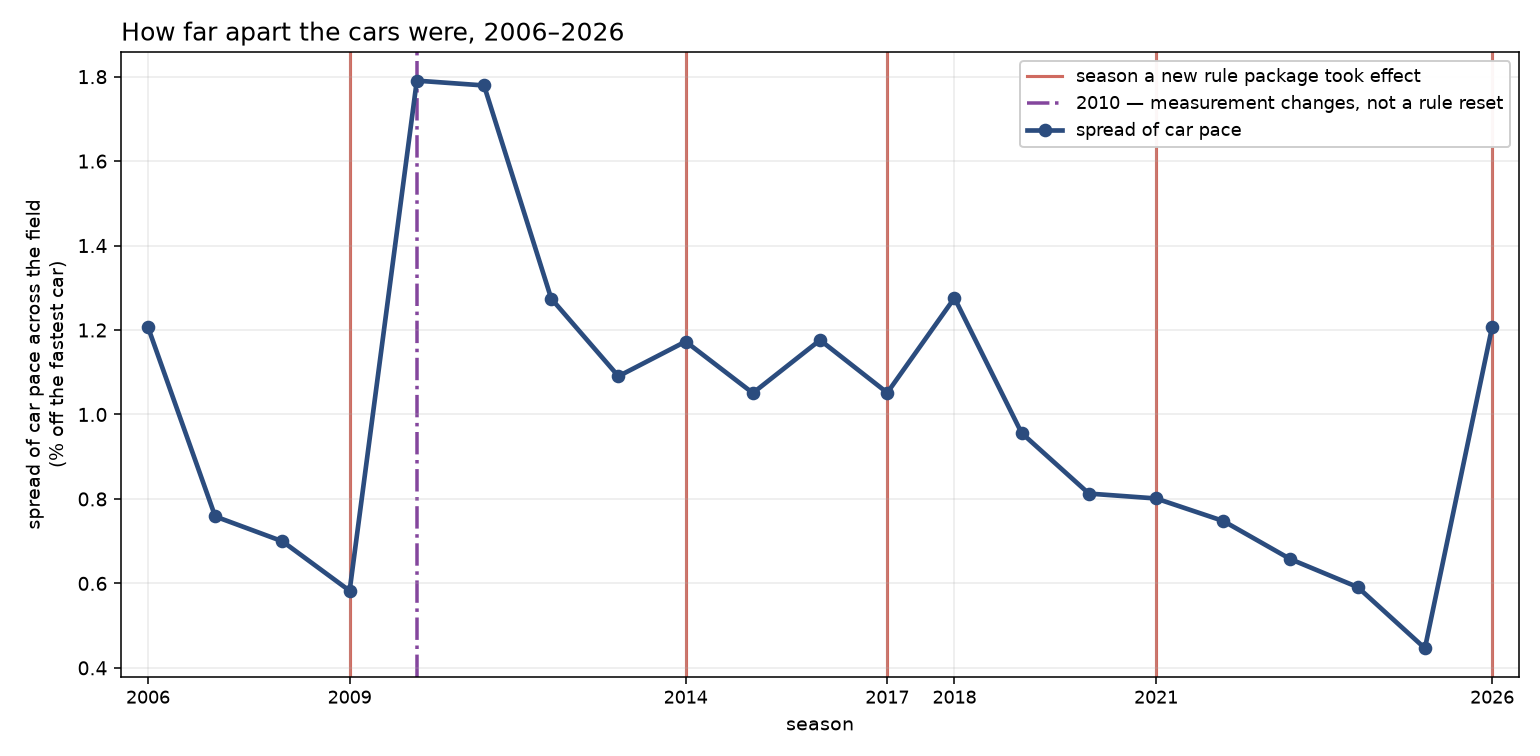
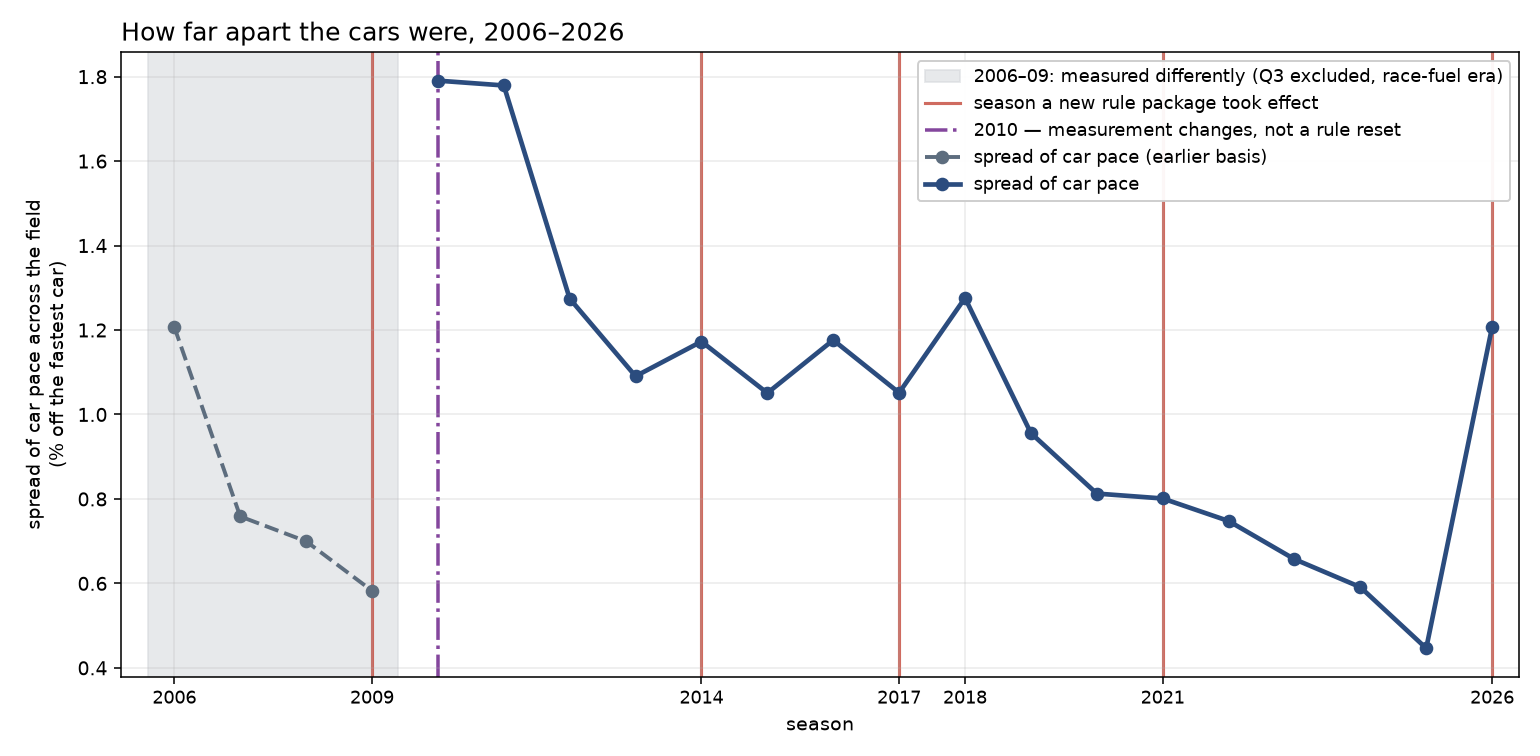
The 2009 estimate is contaminated; figures 2 and 3 no longer contradict
TWO ITEMS, both analyst-found in review after the memo was drafted.

1. THE 2009 ESTIMATE IS CONTAMINATED BY THE 2010 ARTIFACT.

The D1c pre-commitment named M4 and M5 and was applied to them - M4 was
withdrawn at 2009 precisely because the 2009 window contains 2010. Phase 4
then found M1 and M2 also step at 2010, M2 at 1.93x the median reset shift,
the largest relative step of any metric. That logic was never extended to the
primary metric. Entry 035 recorded the control failure as an interpretation
finding and did not follow it through to the 2009 primary estimate.

Quantified by re-estimating on a window truncated at 2009:

  full (2006-2012, contains the artifact)  b2=+0.9726 [+0.6279,+1.3726]  7 seasons
  truncated at 2009 (artifact excluded)    b2=+0.4610 [+0.0892,+0.9804]  4 seasons

The estimate roughly halves. It stays positive with an interval excluding
zero, but the truncated fit rests on four seasons with a single post-boundary
season, so its slope term is NOT IDENTIFIABLE at all - the same structural
problem as 2026. That the truncated fit is barely estimable is itself part of
the answer.

Direction of the conclusion is unaffected: removing or halving 2009 removes a
WIDENING, not a narrowing. "No boundary narrowed beyond trend" holds on four
boundaries instead of five, and 2026 is untouched.

Flagged in the memo table, in Figure 2 with a footnote, in LIMITATIONS and in
the README headline table. Logged as Entry 060 stating plainly that it was
[…]

diff --git a/src/figures.py b/src/figures.py
@@ -192,13 +192,21 @@ def readme_figures() -> None:
 
     # --- (a) M2 over time -----------------------------------------------------
     fig, ax = plt.subplots(figsize=(11, 5.4))
+    # 2006-2009 is measured on a different basis: Q3 was run on race fuel and is
+    # excluded there, so the two eras are not directly comparable in level.
+    ax.axvspan(2005.6, 2009.4, color="#D5D8DC", alpha=0.55, zorder=0,
+               label="2006–09: measured differently (Q3 excluded, race-fuel era)")
     for i, r in enumerate(resets):
         ax.axvline(r, color="#C0392B", lw=1.6, alpha=0.75, zorder=1,
                    label="season a new rule package took effect" if i == 0 else None)
     ax.axvline(2010, color="#7D3C98", lw=1.8, ls="-.", alpha=0.95, zorder=1,
                label="2010 — measurement changes, not a rule reset")
-    ax.plot(a.season, a.M2_iqr, "o-", color="#2B4C7E", lw=2.4, ms=6, zorder=3,
-            label="spread of car pace")
+    early = a[a.season <= 2009]
+    late = a[a.season >= 2010]
+    ax.plot(early.season, early.M2_iqr, "o--", color="#5D6D7E", lw=2.0, ms=6,
+            zorder=3, label="spread of car pace (earlier basis)")
+    ax.plot(late.season, late.M2_iqr, "o-", color="#2B4C7E", lw=2.4, ms=6,
+            zorder=3, label="spread of car pace")
     ax.set_xlabel("season")
     ax.set_ylabel("spread of car pace across the field\n(% off the fastest car)")
     ax.set_title("How far apart the cars were, 2006–2026", fontsize=13, loc="left")
@@ -219,7 +227,7 @@ def readme_figures() -> None:
         on="label")
     y = np.arange(len(m))[::-1]
 
-    fig, ax = plt.subplots(figsize=(10, 4.6))
+    fig, ax = plt.subplots(figsize=(10, 5.2))
     for off, (est, lo, hi), col, lab in (
             (+0.15, ("b2", "b2_lo", "b2_hi"), "#2B4C7E", "main method"),
             (-0.15, ("b2_stratified", "b2_lo_stratified", "b2_hi_stratified"),
@@ -229,12 +237,18 @@ def readme_figures() -> None:
                     fmt="o", color=col, ms=7, capsize=4, lw=2, label=lab)
     ax.axvline(0, color="black", lw=1.4, zorder=0)
     ax.set_yticks(y)
-    ax.set_yticklabels(m.label)
+    labels = [f"{l} ⚑" if l == "2009" else l for l in m.label]
+    ax.set_yticklabels(labels)
     ax.set_xlabel("change in field spread at the rule change\n"
                   "← cars got closer      cars spread apart →")
-    ax.set_title("What happened to the field at each rule change",
-                 fontsize=13, loc="left")
+    ax.set_title("What happened to the field at each rule change\n"
+                 "Method: trend-corrected (the pre-existing decline is removed)",
+                 fontsize=12, loc="left")
     ax.legend(fontsize=9, loc="lower right")
+    ax.annotate("⚑ 2009 is contaminated: its comparison period contains the 2010\n"
+                "   measurement change. Excluding it halves the estimate to +0.46.",
+                xy=(0.005, -0.30), xycoords="axes fraction", fontsize=8.5,
+                color="#7D3C98", va="top")
     ax.grid(axis="x", alpha=0.25)
     fig.tight_layout()
     fig.savefig(config.FIGURES / "fig2_boundary_estimates.png", dpi=140)
@@ -250,9 +264,12 @@ def readme_figures() -> None:
     ax.scatter(plac, np.zeros(len(plac)) + 0.06,
                s=90, color="#9AA5B1", edgecolor="white", zorder=3,
                label=f"ordinary seasons, no rule change (n={len(plac)})")
-    colors = ["#C0392B" if s > 0 else "#1E8449" for s in res["shift"]]
+    # One colour for resets. Direction is NOT encoded here: this chart answers
+    # "are resets distinguishable from ordinary seasons", and colouring by sign
+    # invites a direct read against Figure 2, which uses a different method and
+    # legitimately differs in sign at 2014 and 2017.
     ax.scatter(res["shift"], np.zeros(len(res)) - 0.06, s=150, marker="D",
-               color=colors, edgecolor="black", zorder=4,
+               color="#2B4C7E", edgecolor="black", zorder=4,
                label="seasons with a rule change (n=5)")
     # Stagger labels so near-coincident points (2014 and 2021-22) do not collide.
     order = res.sort_values("shift").reset_index(drop=True)
@@ -265,8 +282,10 @@ def readme_figures() -> None:
     ax.set_yticks([])
     ax.set_xlabel("change in field spread from one season to the next\n"
                   "← cars got closer      cars spread apart →")
-    ax.set_title("Rule changes compared with ordinary seasons",
-                 fontsize=13, loc="left")
+    ax.set_title("Rule changes compared with ordinary seasons\n"
+                 "Method: raw season-to-season change "
+                 "(the pre-existing trend is NOT removed)",
+                 fontsize=12, loc="left")
     ax.legend(fontsize=9, loc="upper left")
     ax.grid(axis="x", alpha=0.25)
     fig.tight_layout()

diff --git a/src/phase5.py b/src/phase5.py
@@ -150,6 +150,33 @@ def run(tier: str = "a") -> dict:
     return out
 
 
+def boundary_2009_contamination(ev: pd.DataFrame) -> pd.DataFrame:
+    """The 2009 window contains the 2010 measurement artifact in its post-period.
+
+    The D1c pre-commitment named M4 and M5 and was applied to them. It was NOT
+    extended to the primary metric M2 at the time, even though Phase 4 found M1
+    and M2 also step at 2010 — M2 at 1.93x the median reset shift. So the 2009
+    M2 estimate is fitted against a post-period containing a step that is
+    measurement, not racing.
+
+    This quantifies it by re-estimating on a window truncated at 2009, which
+    removes the artifact entirely at the cost of leaving a single post-season.
+    """
+    rows = []
+    full = its_fit(ev, PRIMARY, 2009, window=4)
+    full["window"] = "full (2006-2012, contains the 2010 artifact)"
+    rows.append(full)
+
+    trunc = its_fit(ev[ev.season <= 2009], PRIMARY, 2009, window=4)
+    trunc["window"] = "truncated at 2009 (artifact excluded)"
+    rows.append(trunc)
+
+    df = pd.DataFrame(rows)
+    # b3 is not identifiable with one post-season: t*post is zero throughout.
+    df["b3_estimable"] = df.se3 > 1e-9
+    return df
+
+
 def main() -> None:
     res = run("a")
     pd.set_option("display.width", 250)
@@ -199,6 +226,14 @@ def main() -> None:
                   index=False)
     print(f"\nEXACT TEST COUNT: {len(pvals)} confirmatory + {len(sec)} secondary "
           f"= {len(pvals) + len(sec)} formally corrected tests.")
+
+    ev = pd.read_parquet(config.DATA_PROCESSED / "tier_a_event_metrics.parquet")
+    c = boundary_2009_contamination(ev)
+    print("\n=== 2009 BOUNDARY: contamination by the 2010 measurement artifact ===")
+    print(c[["window", "b2", "b2_lo", "b2_hi", "n_seasons", "n_events",
+             "b3_estimable"]].round(4).to_string(index=False))
+    c.to_parquet(config.DATA_PROCESSED / "boundary_2009_contamination.parquet",
+                 index=False)
 
 
 if __name__ == "__main__":

diff --git a/data/processed/dictionary.md b/data/processed/dictionary.md
@@ -8,7 +8,7 @@ Structure is read from the Parquet files; units and meaning are curated in
 `src/data_dictionary.py`. The Parquet files themselves are gitignored and
 rebuilt by `python -m src.pipeline`; this document is committed.
 
-**40 processed tables.**
+**41 processed tables.**
 
 ---
 
@@ -27,6 +27,31 @@ One row per race session attempted, with status and error. A session absent from
 | `status` | object | 100% |  | _(structural / self-describing)_ |
 | `n_laps` | int64 | 100% |  | _(structural / self-describing)_ |
 | `error` | object | 100% |  | _(structural / self-describing)_ |
+
+---
+
+## `boundary_2009_contamination.parquet`
+
+(undocumented table)
+
+**Produced by:** `(unknown)` — **2 rows, 14 columns**
+
+| column | type | non-null | units | meaning |
+|---|---|---:|---|---|
+| `boundary` | int64 | 100% |  | _(structural / self-describing)_ |
+| `metric` | object | 100% |  | _(structural / self-describing)_ |
+| `b2` | float64 | 100% | percent | ITS LEVEL change at the boundary. Positive = the field spread apart. |
+| `b3` | float64 | 100% | percent/season | ITS SLOPE change after the boundary. |
+| `se2` | float64 | 100% | percent | Bootstrap standard error of b2. |
+| `se3` | float64 | 100% | percent/season | Bootstrap standard error of b3. |
+| `b2_lo` | float64 | 100% | percent | Lower bound, 95% cluster-bootstrap interval. |
+| `b2_hi` | float64 | 100% | percent | Upper bound, 95% cluster-bootstrap interval. |
+| `b3_lo` | float64 | 100% |  | _(structural / self-describing)_ |
+| `b3_hi` | float64 | 100% |  | _(structural / self-describing)_ |
+| `n_events` | int64 | 100% |  | _(structural / self-describing)_ |
+| `n_seasons` | int64 | 100% |  | _(structural / self-describing)_ |
+| `window` | object | 100% |  | _(structural / self-describing)_ |
+| `b3_estimable` | bool | 100% |  | _(structural / self-describing)_ |
 
 ---
 
@@ -864,6 +889,6 @@ Venue precipitation on each qualifying date (Open-Meteo). RETAINED BUT UNUSED - 
 Structural or self-describing columns (indices, counts, labels, and per-table bookkeeping). Listed for completeness so the audit is honest about what is and is not curated.
 
 ```
-DriverNumber, E_back, E_front, FreshTyre, IsAccurate, LapStartTime, LapTime, M4_frontgap_top2, PitInTime, PitOutTime, Q, RESTRICTION_TRIGGERED, Sector1Time, Sector2Time, Sector3Time, abs_shift, after, age, b2_fieldwide, b2_hi_fieldwide, b2_hi_stratified, b2_lo_fieldwide, b2_lo_stratified, b2_stratified, b3_hi, b3_lo, before, boundary, change, check, ci_hi, ci_lo, circuit, circuit_retention_pct, compound, compounds_dropped, country, deg_slopes, delta_strat, era, error, event_format, exceeds_all_placebos, fitted, format_source, front_of_field, gap_hi, gap_lo, has_Compound, has_Driver, has_LapNumber, has_LapTime, has_PitInTime, has_PitOutTime, has_Stint, has_Team, has_TrackStatus, has_TyreLife, hi, holm_threshold, into_reset, k, knob, label, lap, laps, laps_dropped_thin_compound, laps_kept, laps_per_driver, lat, lo, loaded, locality, lon, mean, median, median_Q2_minus_Q1, median_Q3_minus_Q2, median_abs_reset_shift, metric, n, n_back, n_constructors_endpoint, n_constructors_in_quali, n_drivers, n_entries, n_events, n_front, n_hours, n_laps, n_laps_in, n_pairs, n_pairs_Q3_Q2, n_post, n_pre, n_seasons, n_teams, note, pace_iqr_pct, pace_spread_pct, pct_Compound, pct_Driver, pct_LapNumber, pct_LapTime, pct_PitInTime, pct_PitOutTime, pct_Stint, pct_Team, pct_TrackStatus, pct_TyreLife, pct_differ, pct_of_base, pct_rows_with_Q1, pct_rows_with_Q2, pct_rows_with_Q3, pctile_in_placebo, pit_in, pit_out, placebo_max_abs, placebo_median_abs, precip_max_hourly_mm, prev, q25, q75, quali_date, quali_rows, quali_time_available, races, reject_at_0.05, resid, result, rho_finish, rho_quali, role, rounds_with_q3, rounds_with_quali, se, shift_2010, sign_flip, size, sources_agree, status, step, teams, test, threshold_half_reset, tz, unit, value, varies, weather_status, wet, wet_hours_gt_0p1mm
+DriverNumber, E_back, E_front, FreshTyre, IsAccurate, LapStartTime, LapTime, M4_frontgap_top2, PitInTime, PitOutTime, Q, RESTRICTION_TRIGGERED, Sector1Time, Sector2Time, Sector3Time, abs_shift, after, age, b2_fieldwide, b2_hi_fieldwide, b2_hi_stratified, b2_lo_fieldwide, b2_lo_stratified, b2_stratified, b3_estimable, b3_hi, b3_lo, before, boundary, change, check, ci_hi, ci_lo, circuit, circuit_retention_pct, compound, compounds_dropped, country, deg_slopes, delta_strat, era, error, event_format, exceeds_all_placebos, fitted, format_source, front_of_field, gap_hi, gap_lo, has_Compound, has_Driver, has_LapNumber, has_LapTime, has_PitInTime, has_PitOutTime, has_Stint, has_Team, has_TrackStatus, has_TyreLife, hi, holm_threshold, into_reset, k, knob, label, lap, laps, laps_dropped_thin_compound, laps_kept, laps_per_driver, lat, lo, loaded, locality, lon, mean, median, median_Q2_minus_Q1, median_Q3_minus_Q2, median_abs_reset_shift, metric, n, n_back, n_constructors_endpoint, n_constructors_in_quali, n_drivers, n_entries, n_events, n_front, n_hours, n_laps, n_laps_in, n_pairs, n_pairs_Q3_Q2, n_post, n_pre, n_seasons, n_teams, note, pace_iqr_pct, pace_spread_pct, pct_Compound, pct_Driver, pct_LapNumber, pct_LapTime, pct_PitInTime, pct_PitOutTime, pct_Stint, pct_Team, pct_TrackStatus, pct_TyreLife, pct_differ, pct_of_base, pct_rows_with_Q1, pct_rows_with_Q2, pct_rows_with_Q3, pctile_in_placebo, pit_in, pit_out, placebo_max_abs, placebo_median_abs, precip_max_hourly_mm, prev, q25, q75, quali_date, quali_rows, quali_time_available, races, reject_at_0.05, resid, result, rho_finish, rho_quali, role, rounds_with_q3, rounds_with_quali, se, shift_2010, sign_flip, size, sources_agree, status, step, teams, test, threshold_half_reset, tz, unit, value, varies, weather_status, wet, wet_hours_gt_0p1mm, window
 ```
 

diff --git a/DECISIONS.md b/DECISIONS.md
@@ -1742,3 +1742,93 @@ the abolition. **Tested and not detected, with the same floor.**
 **Operational note.** The run completed only after being made resumable
 (partial results written per session, completed sessions skipped on restart)
 following two stalls on hung FastF1 requests with no effective timeout.
+## 2026-09-07 — Entry 060 — The 2009 estimate is contaminated by the 2010 artifact; D1c logic was not extended to the primary metric
+
+**Question.** The 2009 boundary's estimation window runs to 2012 and therefore
+contains the 2010 measurement discontinuity in its post-period. Was that
+accounted for?
+
+**Status.** **No. Caught in review AFTER the memo was drafted.** Recorded here as
+it happened rather than retro-fitted into the plan.
+
+**What went wrong.** Entry 021 pre-committed the D1c restriction, and Entry 034
+applied it: M4 was withdrawn at 2009 precisely because the 2009 window contains
+2010. Entry 035 then recorded that the whole-field controls **also** stepped at
+2010, M2 at **1.93× the median reset shift** — the largest relative step of any
+metric, larger than M4's.
+
+**The pre-commitment named M4 and M5, so nothing was applied to M2.** The logic
+that justified withdrawing M4 at 2009 applies with equal or greater force to the
+primary metric, and it was not extended there at the time. Entry 035 recorded the
+control failure as an interpretation finding and did not follow it through to the
+2009 primary estimate.
+
+This was found by the analyst in review after `memo.md` was written and
+committed.
+
+**Quantified (a).** Re-estimated on a window truncated at 2009, which removes the
+artifact entirely:
+
+| window | b2 | 95% CI | seasons | events | slope estimable |
+|---|---:|---|---:|---:|:---:|
+| full (2006–2012, contains the artifact) | +0.9726 | [+0.6279, +1.3726] | 7 | 128 | yes |
+| truncated at 2009 | +0.4610 | [+0.0892, +0.9804] | 4 | 70 | **no** |
+
+**The estimate roughly halves.** It remains positive with an interval excluding
+zero. The truncated version rests on four seasons with a **single post-boundary
+season**, so `t × post` is degenerate and the slope term is **not identifiable at
+all** — the same structural problem as 2026. Its level estimate is correspondingly
+weak. That the truncated fit is barely estimable is itself part of the answer.
+
+**Flagged wherever it appears (b).** The memo's per-boundary table, Figure 2 (a
+flag on the 2009 row plus a footnote giving the truncated value), and
+`LIMITATIONS.md` §4.
+
+**Direction of the conclusion is unaffected (c).** Removing or halving 2009
+removes a **widening**, not a narrowing. "No boundary narrowed beyond trend"
+holds on four boundaries instead of five, and 2026 — the other Holm-surviving
+widening — is untouched.
+
+**Why this is a finding and not a repair (d).** The boundary described throughout
+this work as the "least contaminated" in the study, and used as such in §8.5,
+turns out to have a measurement discontinuity inside its own comparison window.
+That belongs in the memo body, and it is there.
+
+**Reproducible.** `src.phase5.boundary_2009_contamination`, written to
+`data/processed/boundary_2009_contamination.parquet`.
+
+---
+
+## 2026-09-07 — Entry 061 — Figures 2 and 3 contradicted each other on sight
+
+**Question.** Figure 2 (trend-corrected) put 2014 at +0.449, widening. Figure 3
+(raw difference) put 2014 at −0.39 and coloured it green for narrowing. Same
+boundary, opposite sign, opposite colour, adjacent in the README.
+
+**Status.** FIXED.
+
+**The defect.** A caption naming the specification was not enough, because
+**colour reads before text**. A reader scanning the two charts saw red-for-wider
+in one and green-for-narrower in the other for the same season and would
+reasonably conclude one of them was wrong.
+
+**Fixes applied.**
+1. **Direction colour-coding removed from Figure 3 entirely.** One colour for
+   rule-change seasons, one for ordinary seasons. That figure answers "are rule
+   changes distinguishable from ordinary seasons," not "which direction did each
+   go," and encoding direction invited a comparison the chart does not support.
+2. **The specification moved into the figure TITLE on both charts**, not the
+   caption — "trend-corrected (the pre-existing decline is removed)" against
+   "raw season-to-season change (the pre-existing trend is NOT removed)".
+3. **A pull-quote between them in the README** stating that the two use different
+   methods, that this is why 2014 and 2017 flip sides, and that the difference is
+   whether the pre-existing trend is removed — with the note that which question
+   is the right one is the single biggest judgement call in the analysis.
+4. **Figure 1 now shades 2006–2009** and draws it as a separate dashed series,
+   because Q3 is excluded there and the two eras are not on the same measurement
+   basis. Previously a reader saw one continuous line across a break the analysis
+   knows to exist.
+5. **The memo's "M2 falls from 1.21 in 2006 to 0.45 in 2025"** spanned the 2010
+   discontinuity. Restated within-era: 1.21 → 0.58 across 2006–09 and 1.79 → 0.45
+   across 2010–25. Both eras decline internally, so the claim survives, but it no
+   longer rests on a comparison across the break.

diff --git a/memo.md b/memo.md
@@ -43,11 +43,48 @@ percent off the fastest car), segmented interrupted time series, level change
 
 | boundary | b2 (field-wide) | 95% CI | b2 (stratified, R16) | Holm |
 |---|---:|---|---:|:---:|
-| 2009 | **+0.973** | [+0.633, +1.382] | +0.888 | **survives** |
+| 2009 **⚑ contaminated** | **+0.973** | [+0.633, +1.382] | +0.888 | **survives** |
 | 2014 | +0.449 | [+0.062, +0.849] | +0.468 | does not |
 | 2017 | +0.133 | [−0.113, +0.382] | +0.025 | does not |
 | 2021–22 | −0.003 | [−0.455, +0.343] | +0.066 | does not |
 | 2026 | **+0.834** | [+0.621, +1.073] | +0.741 | **survives** |
+
+### ⚑ The 2009 estimate is contaminated, and we found it late
+
+The 2009 boundary's estimation window runs to 2012, so **its post-period
+contains the 2010 measurement discontinuity** — the season the grid went from
+ten constructors to twelve with three new backmarkers, refuelling was banned, and
+the qualifying segment basis changed. M2 steps at 2010 by 1.93× the median reset
+shift. That step is measurement, not racing, and the 2009 estimate is fitted
+against it.
+
+Re-estimating on a window truncated at 2009, which removes the artifact entirely:
+
+| window | b2 | 95% CI | seasons | slope estimable |
+|---|---:|---|---:|:---:|
+| full (2006–2012, contains the artifact) | **+0.973** | [+0.628, +1.373] | 7 | yes |
+| truncated at 2009 (artifact excluded) | **+0.461** | [+0.089, +0.980] | 4 | **no** |
+
+**The 2009 estimate roughly halves.** It stays positive with an interval
+excluding zero, but the truncated version rests on four seasons with a
+single post-boundary season, so its slope term is not identifiable at all and
+the level estimate is weak.
+
+**This does not change the direction of the conclusion.** Removing or halving
+2009 removes a *widening*, not a narrowing. The statement "no boundary narrowed
+beyond trend" holds on four boundaries instead of five, and 2026 — the other
+Holm-surviving widening — is untouched by this.
+
+We should have caught it earlier. The D1c pre-commitment named M4 and M5 and was
+applied to them; its logic was never extended to the primary metric even after
+Phase 4 showed M1 and M2 stepping at 2010 more strongly than M4 did. It was found
+in review after this memo was first drafted. Recorded as such in
+[`DECISIONS.md`](DECISIONS.md) Entry 060 rather than written up as though it had
+been anticipated.
+
+**The boundary described throughout this work as "least contaminated" turns out
+to have a measurement discontinuity inside its comparison window.** That is a
+finding about the study, not a repair to it.
 
 ### 2. Direction: three of five widened. None narrowed beyond trend.
 
@@ -57,7 +94,9 @@ level change does not, at p = 0.026 against a 0.010 threshold). 2017 is
 indistinguishable from nothing.
 
 **No boundary in the study shows the field narrowing beyond its pre-existing
-trend.**
+trend.** That statement survives the 2009 contamination flagged below: setting
+2009 aside entirely leaves it holding on four boundaries rather than five,
+because what 2009 contributes is a widening.
 
 The 2026 figure carries a specific correction. An eleventh constructor joined
 that season, and **29% of the measured widening is attributable to the new
@@ -96,9 +135,13 @@ Using the pre-registered language: **no measurable convergence effect.**
 
 ### 5. The field did converge — steadily, across two decades, regardless of resets
 
-M2 falls from 1.21 in 2006 to 0.45 in 2025. Every boundary has a negative
-pre-slope: the field was already converging before four of the five resets.
-That trend, not the resets, is where the convergence lives.
+The decline is best stated **within each measurement era**, because the 2010
+discontinuity sits between them and a single 2006→2025 figure would span it:
+1.21 → 0.58 across 2006–2009, and 1.79 → 0.45 across 2010–2025. Both eras
+decline steeply and internally, so the claim does not depend on comparing across
+the break. Every boundary also has a negative pre-slope: the field was already
+converging before four of the five resets. That trend, not the resets, is where
+the convergence lives.
 
 **Whether that secular trend is the regulations working slowly, or something
 else entirely, is beyond what this design can answer.** It is the study's central

diff --git a/LIMITATIONS.md b/LIMITATIONS.md
@@ -144,6 +144,32 @@ Recorded before any result existed, in the plan.
   technical changes, Honda's withdrawal producing Brawn inside the window, and
   the 2008 financial crisis reshaping budgets in its pre-period (confound 14).
 
+- **The 2009 estimate is contaminated by the 2010 measurement artifact, and this
+  was found late.** The 2009 window runs to 2012, so its post-period contains
+  2010 — the season the grid went from ten constructors to twelve with three new
+  backmarkers, refuelling was banned, and the qualifying segment basis changed.
+  M2 steps at 2010 by 1.93× the median reset shift, so the 2009 estimate is
+  fitted against a step that is measurement rather than racing.
+
+  | window | b2 | 95% CI | seasons | slope estimable |
+  |---|---:|---|---:|:---:|
+  | full (2006–2012, contains the artifact) | +0.973 | [+0.628, +1.373] | 7 | yes |
+  | truncated at 2009 | +0.461 | [+0.089, +0.980] | 4 | **no** |
+
+  The estimate roughly halves. It stays positive with an interval excluding zero,
+  but the truncated version rests on four seasons with one post-boundary season,
+  so its slope term is unidentifiable and its level estimate is weak.
+
+  **The direction of the study's conclusion is unaffected**: removing 2009
+  removes a widening, not a narrowing, so "no boundary narrowed beyond trend"
+  holds on four boundaries instead of five.
+
+  **How it was missed.** The D1c pre-commitment named M4 and M5 and was applied
+  to them. Its logic was never extended to the primary metric, even after Phase 4
+  found M1 and M2 stepping at 2010 more strongly in relative terms than M4 did.
+  It was caught in review after the memo was first drafted. Recorded that way in
+  Entry 060 rather than presented as anticipated.
+
 - **H2 was downgraded before it was tested.** The longest uninterrupted
   stable-regulation period in 2006–2026 is **three seasons**. H2 is defined
   against "a comparable stable-regulation period," and none exists. This is a
